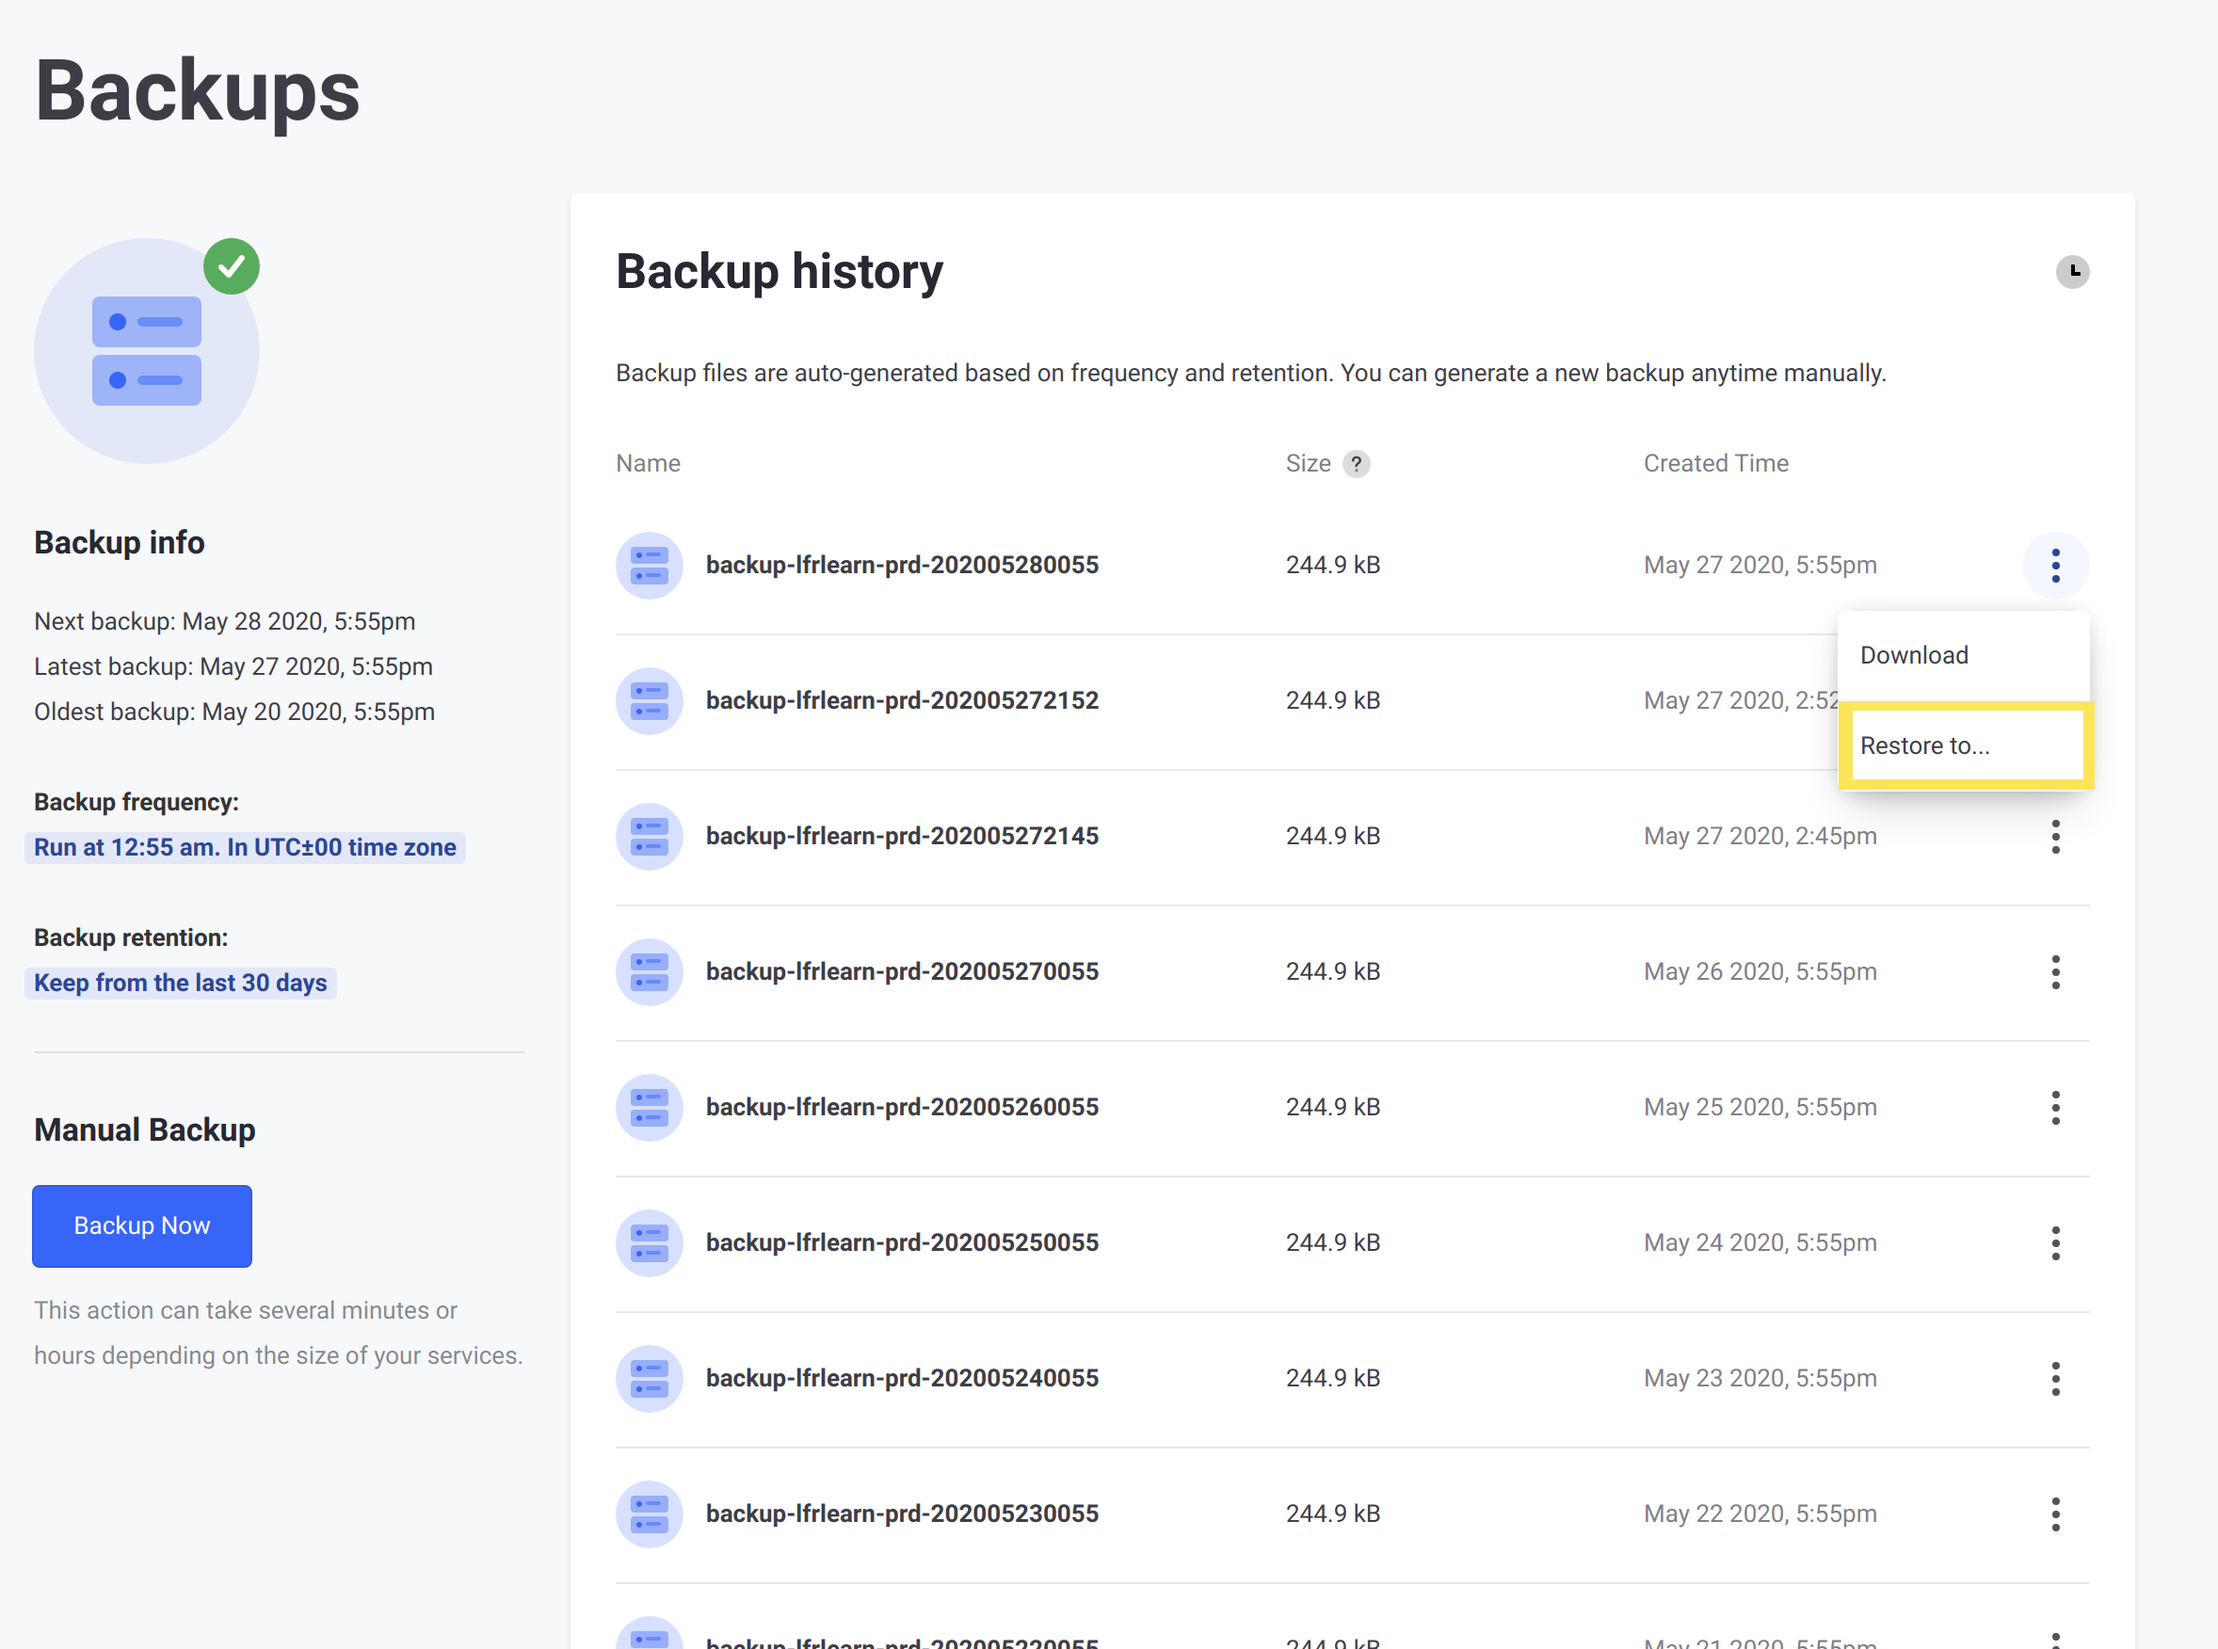
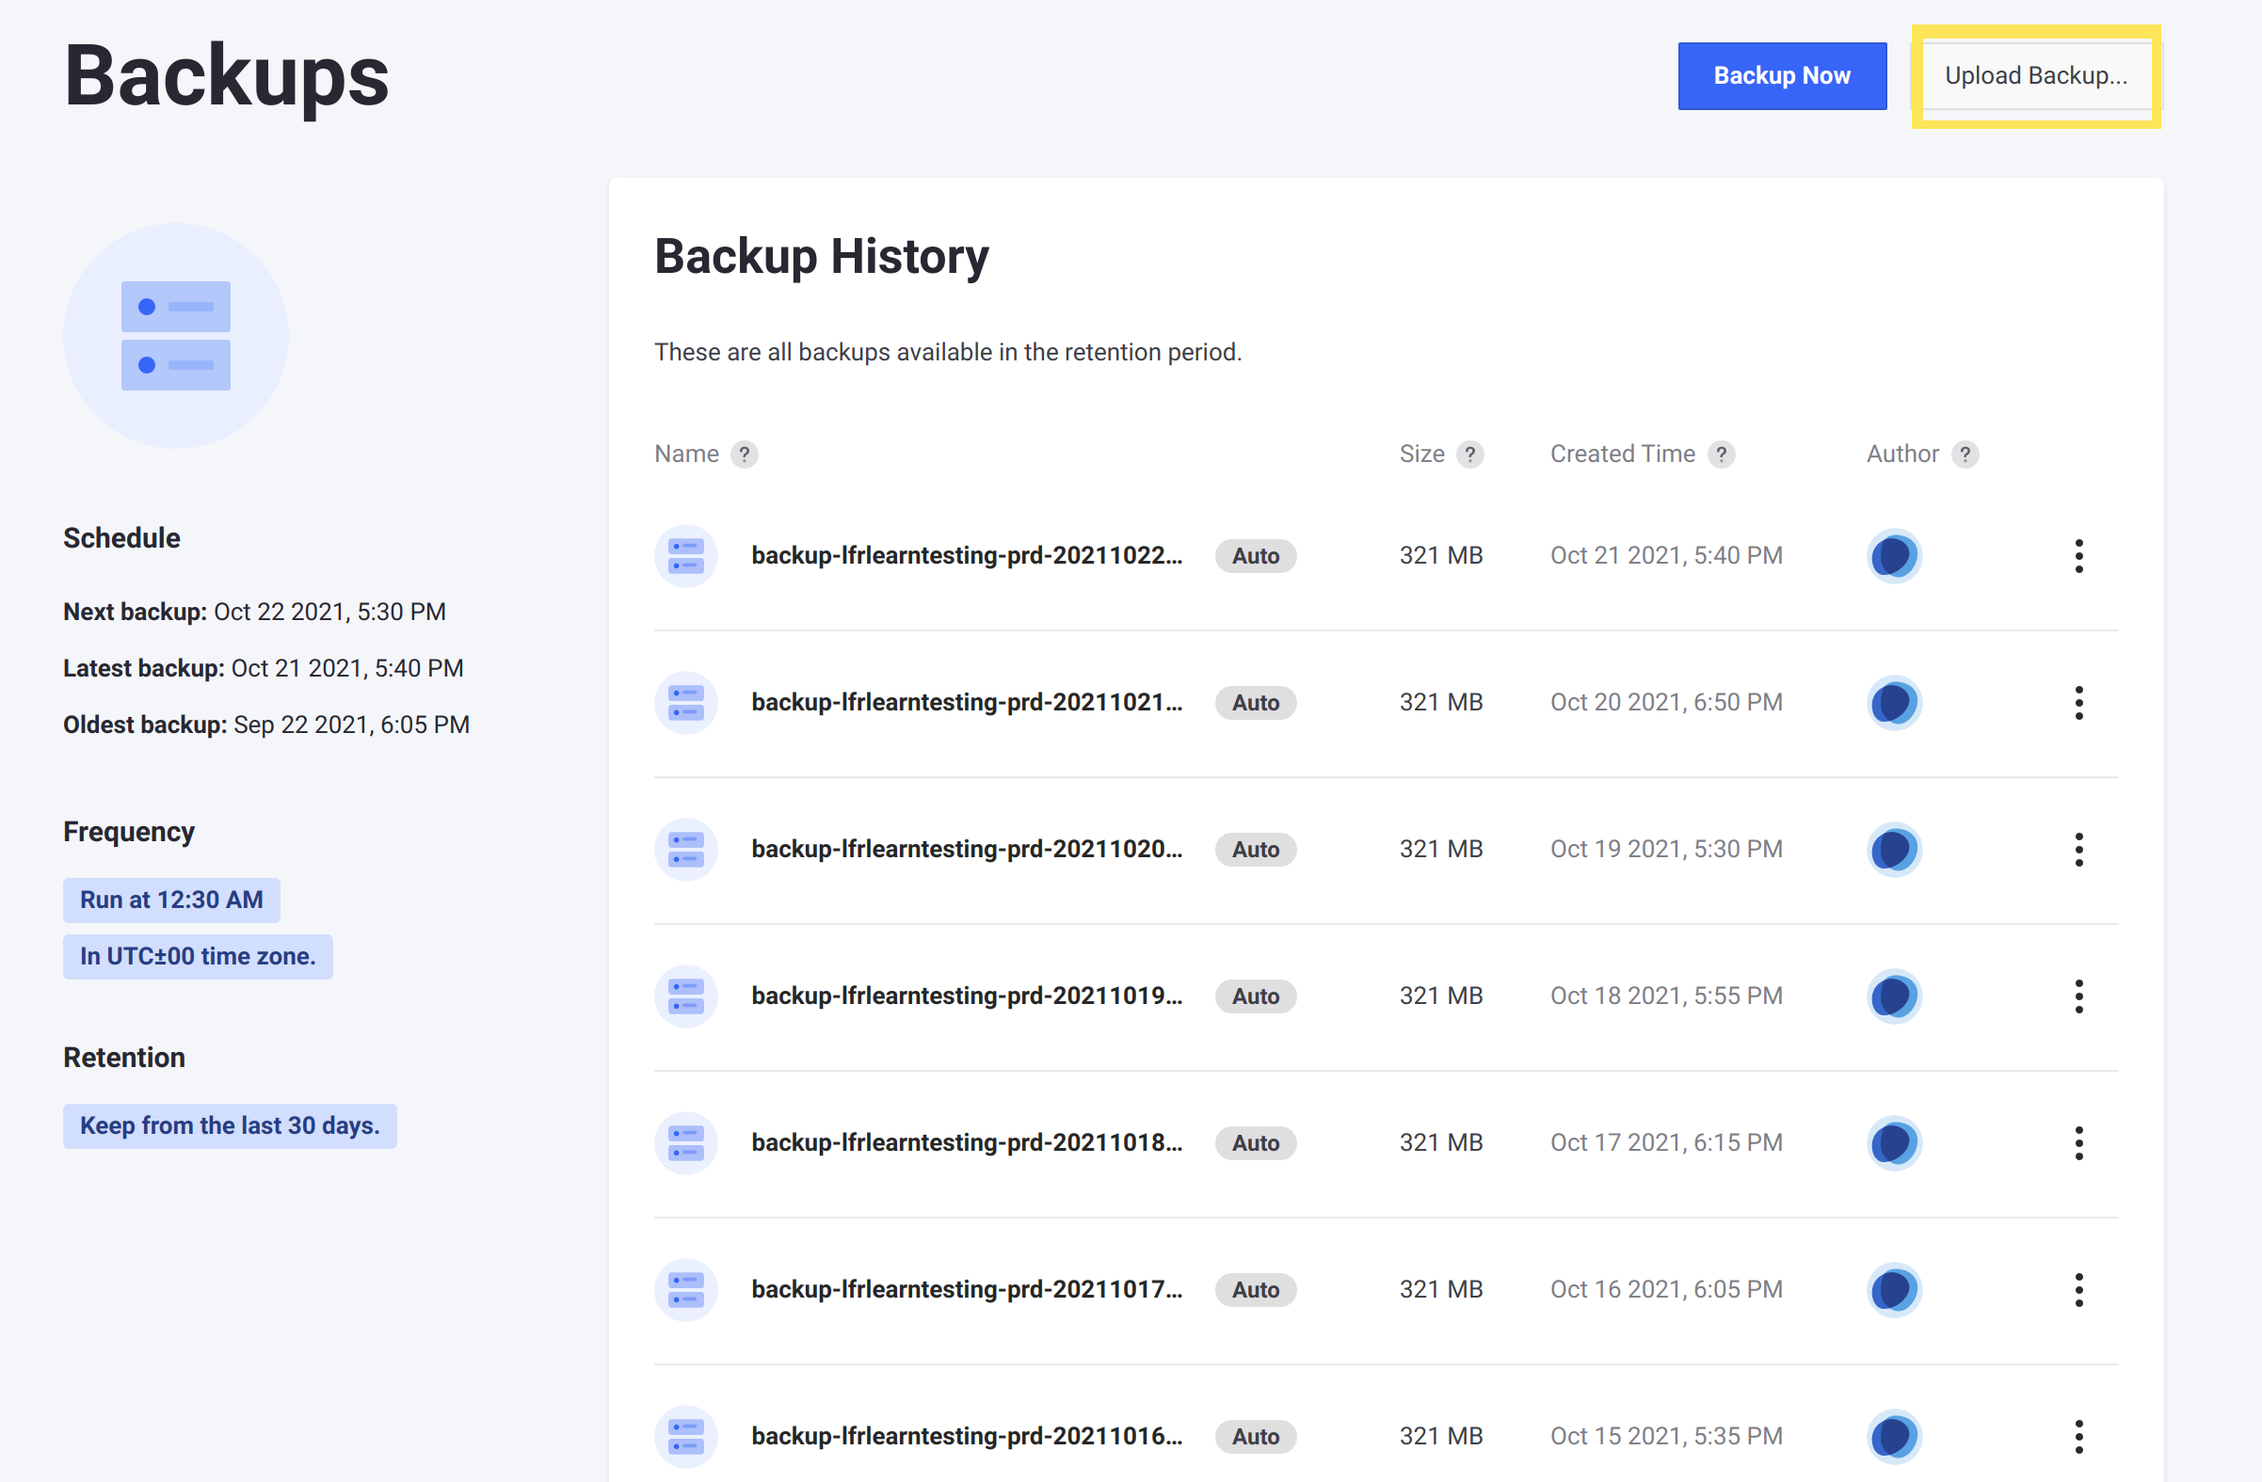
LRDOCS-9621 Convert the upload method mentioned to use the console

diff --git a/docs/dxp-cloud/latest/en/using-the-liferay-dxp-service/upgrading-your-liferay-dxp-instance.md b/docs/dxp-cloud/latest/en/using-the-liferay-dxp-service/upgrading-your-liferay-dxp-instance.md
@@ -20,8 +20,8 @@ Review the following steps to perform a database upgrade:
 1. [Download a backup](#download-a-backup)
 1. [Extract and import the data](#extract-and-import-the-data)
 1. [Perform the data upgrade](#perform-the-data-upgrade)
-1. [Compress the database and document library](#compress-the-database-and-document-library)
-1. [Call the upload API](#call-the-upload-api)
+1. [Compress the document library and database](#compress-the-document-library-and-database)
+1. [Upload the document library and database](#upload-the-document-library-and-database)
 1. [Restore the backup](#restore-the-backup)
 
 ## Install Prerequisites
@@ -191,27 +191,27 @@ Now that your Liferay installation has been upgraded, use the following steps to
     tar zcvf database.tgz database.gz
     ```
 
-The database and Liferay data volume are now ready to upload using the `backup` service's upload API.
+The database and Liferay data volume are now ready to upload the database and document library to the `backup` service.
 
-## Call the Upload API
+## Upload the Document Library and Database
 
-Upload the database and document library archives to the `backup` service by calling the upload API:
+Upload the database and document library archives to the `backup` service via the console:
 
 1. If you are not already logged in, log into the [DXP Cloud console](https://console.liferay.cloud/login).
 
-1. Open `https://api.liferay.cloud/user` in a browser.
+1. Navigate to the *Backups* page for the appropriate environment.
 
-1. Copy your user session token from the JSON string shown at this URL. Copy only the value for the `token` property (removing the quotation marks).
+1. Click *Upload Backup...* near the top of the screen.
 
-1. Run the following command to call the upload API after modifying it for your project:
+    ![Click the Upload Backup button to access the upload page.](./upgrading-your-liferay-dxp-instance/images/03.png)
 
-    ```bash
-    curl -X POST https://backup-<PROJECT-NAME>-<ENV>.lfr.cloud/backup/upload -H 'Content-Type: multipart/form-data' -H 'Authorization: Bearer <USER-TOKEN>' -F 'database=@/path/to/folder/database.tgz' -F 'volume=@/path/to/folder/volume.tgz'
-    ```
+1. On the Upload Backup page, expand the appropriate environment, and then click the `+` icons for both the database and document library to upload them.
 
-    Replace `<PROJECT-NAME>` with the name of your project, and `/path/to/folder/` with the path your `.tgz` archives are located. Replace `<ENV>` with the abbreviation for the environment you want to upload the upgraded backup to (such as `dev`).
+    ![Click the icons to upload both the database and document library as .gz archives.](./upgrading-your-liferay-dxp-instance/images/04.png)
 
-When the call is complete, a new backup appears from your upload, on the _Backups_ page in the DXP Cloud console.
+1. When both the database dump and document library are uploaded, click *Initiate Upload*.
+
+When the upload is complete, a new backup appears at the top of the list on the Backups page.
 
 ## Update Your Project's Liferay Image Version
 
@@ -231,15 +231,15 @@ Follow these steps to restore a backup to your chosen environment:
 
 1. Log into the DXP Cloud console, if you are not already logged in.
 
-1. Navigate to the environment [you uploaded your backup to](#call-the-upload-api), then click _Backups_ from the side menu.
+1. Navigate to the environment [you uploaded your backup to](#upload-the-document-library-and-database), then click _Backups_ from the side menu.
 
 1. Choose a backup from the list, and then click _Restore to_ from the Actions menu for that backup.
 
-    ![Select Restore to... from the Actions menu for the uploaded backup.](./upgrading-your-liferay-dxp-instance/images/03.png)
+    ![Select Restore to... from the Actions menu for the uploaded backup.](./upgrading-your-liferay-dxp-instance/images/05.png)
 
 1. Select one of your environments to restore to from the drop-down list (e.g., your `dev` environment).
 
-    ![Select an environment to deploy the backup to.](./upgrading-your-liferay-dxp-instance/images/04.png)
+    ![Select an environment to deploy the backup to.](./upgrading-your-liferay-dxp-instance/images/06.png)
 
 1. Click _Restore to environment_.
 
